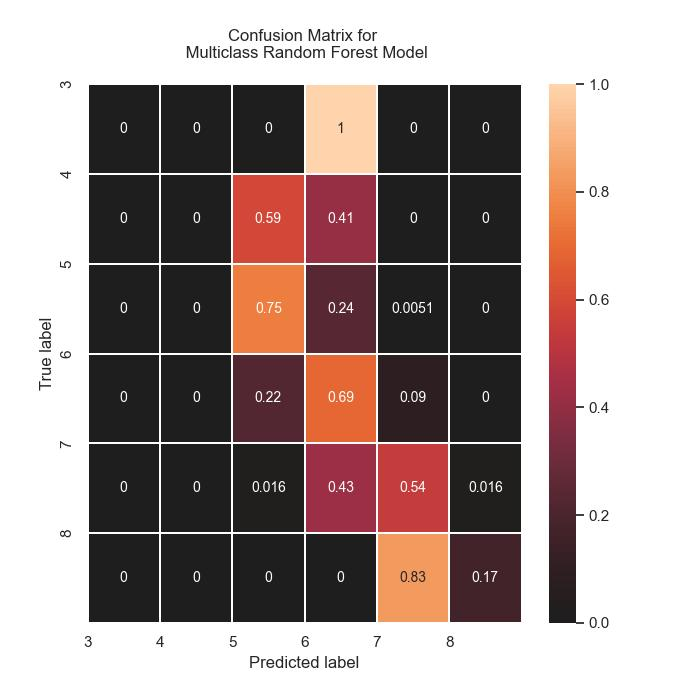
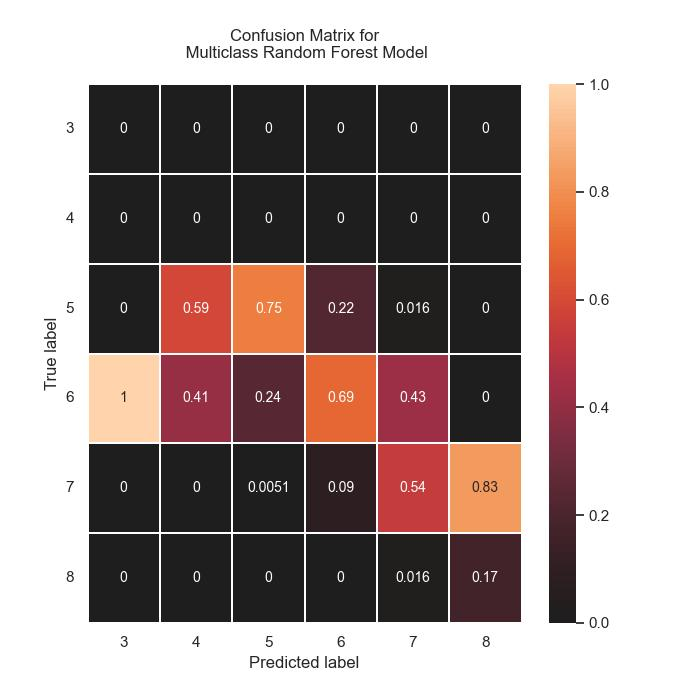
Checkpoint 5

diff --git a/RF_Outliers/RF_Outlier_Removal.py b/RF_Outliers/RF_Outlier_Removal.py
@@ -55,21 +55,24 @@ f.close()
 matrix = confusion_matrix(y_test, y_pred_test)
 matrix = matrix.astype('float') / matrix.sum(axis=1)[:, np.newaxis]
 
-# Build the plot
+# Create .csv version of confusion matrix
+class_names = ['4', '5', '6', '7', '8']
+mcsv = pandas.DataFrame(matrix, index=class_names, columns=class_names).transpose()
+mcsv.to_csv("RF_Outlier_Confusion_Matrix.csv")
+
+# Build a plot for a confusion matrix heatmap
 plt.figure(figsize=(7, 7))
 sns.set(font_scale=1)
 sns.color_palette("colorblind", as_cmap=True)
-sns.heatmap(matrix, center=0, annot=True, annot_kws={'size': 10},
+sns.heatmap(mcsv, center=0, annot=True, annot_kws={'size': 10},
             linewidths=0.2)
 
 # Add labels to the plot
-class_names = ['3', '4', '5', '6', '7', '8']
-tick_marks = np.arange(len(class_names))
-plt.xticks(tick_marks, class_names)
-plt.yticks(tick_marks, class_names)
+plt.xticks(rotation=0)
+plt.yticks(rotation=0)
 plt.xlabel('Predicted label')
 plt.ylabel('True label')
-plt.title('Confusion Matrix for\n Multiclass Outlier Random Forest Model\n')
+plt.title('Confusion Matrix for Multiclass\n Outlier Removal Random Forest Model\n')
 
 # Save the Heatmap
 plt.savefig('RF_Outlier_CM_Heat.jpeg')

diff --git a/RF_Multiclass/RF_Multiclass.py b/RF_Multiclass/RF_Multiclass.py
@@ -44,21 +44,25 @@ f.close()
 matrix = confusion_matrix(y_test, y_pred_test)
 matrix = matrix.astype('float') / matrix.sum(axis=1)[:, np.newaxis]
 
-# Build the plot
+# Create .csv version of confusion matrix
+class_names = ['3', '4', '5', '6', '7', '8']
+mcsv = pandas.DataFrame(matrix, index=class_names, columns=class_names).transpose()
+mcsv.to_csv("RF_Multi_Confusion_Matrix.csv")
+
+
+# Build a plot for a confusion matrix heatmap
 plt.figure(figsize=(7, 7))
 sns.set(font_scale=1)
 sns.color_palette("colorblind", as_cmap=True)
-sns.heatmap(matrix, center=0, annot=True, annot_kws={'size': 10},
+sns.heatmap(mcsv, center=0, annot=True, annot_kws={'size': 10},
             linewidths=0.2)
 
 # Add labels to the plot
-class_names = ['3', '4', '5', '6', '7', '8']
-tick_marks = np.arange(len(class_names))
-plt.xticks(tick_marks, class_names)
-plt.yticks(tick_marks, class_names)
+plt.xticks(rotation=0)
+plt.yticks(rotation=0)
 plt.xlabel('Predicted label')
 plt.ylabel('True label')
-plt.title('Confusion Matrix for \n Multiclass Random Forest Model\n')
+plt.title('Confusion Matrix for\n Multiclass Random Forest Model\n')
 
 #Save the Heatmap
 plt.savefig('RF_Multi_CM_Heat.jpeg')

diff --git a/RF_Binary/RF_Binary_Classification.py b/RF_Binary/RF_Binary_Classification.py
@@ -58,11 +58,16 @@ f.close()
 matrix = confusion_matrix(y_test, y_pred_test)
 matrix = matrix.astype('float') / matrix.sum(axis=1)[:, np.newaxis]
 
-# Build the plot
-plt.figure(figsize=(5, 5))
+# Create .csv version of confusion matrix
+class_names = ['< 6', '>= 6']
+mcsv = pandas.DataFrame(matrix, index=class_names, columns=class_names).transpose()
+mcsv.to_csv("RF_Binary_Confusion_Matrix.csv")
+
+# Build a plot for a confusion matrix heatmap
+plt.figure(figsize=(7, 7))
 sns.set(font_scale=1)
 sns.color_palette("colorblind", as_cmap=True)
-sns.heatmap(matrix, center=0, annot=True, annot_kws={'size': 10},
+sns.heatmap(mcsv, center=0, annot=True, annot_kws={'size': 10},
             linewidths=0.2)
 
 # Add labels to the plot
@@ -70,7 +75,7 @@ plt.xticks(rotation=0)
 plt.yticks(rotation=0)
 plt.xlabel('Predicted label')
 plt.ylabel('True label')
-plt.title('Confusion Matrix for Binary, \n Classification Random Forest Model\n')
+plt.title('Confusion Matrix for Binary, \nClassification Random Forest Model\n')
 
 # Save the Heatmap
 plt.savefig('RF_Binary_CM_Heat.jpeg')
